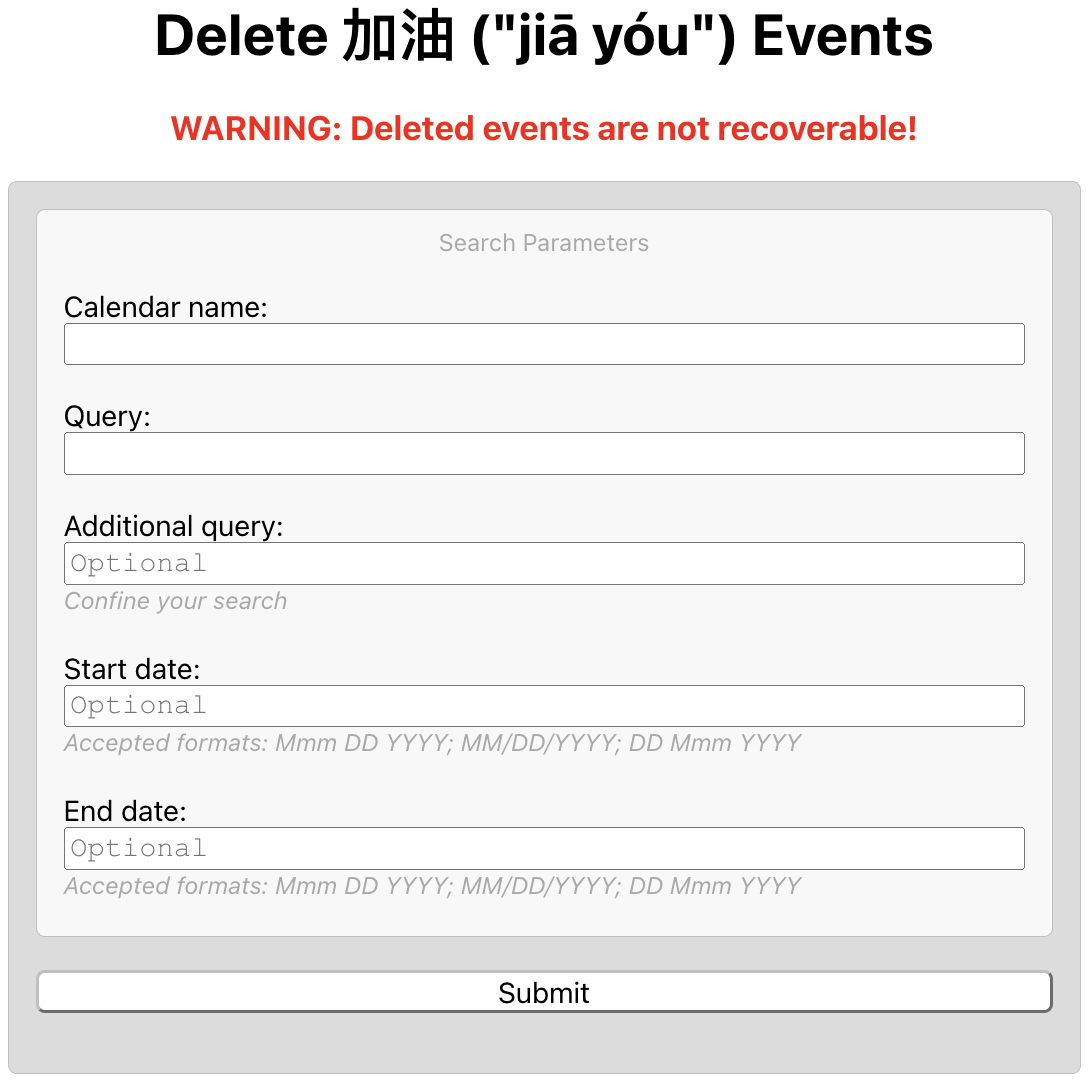
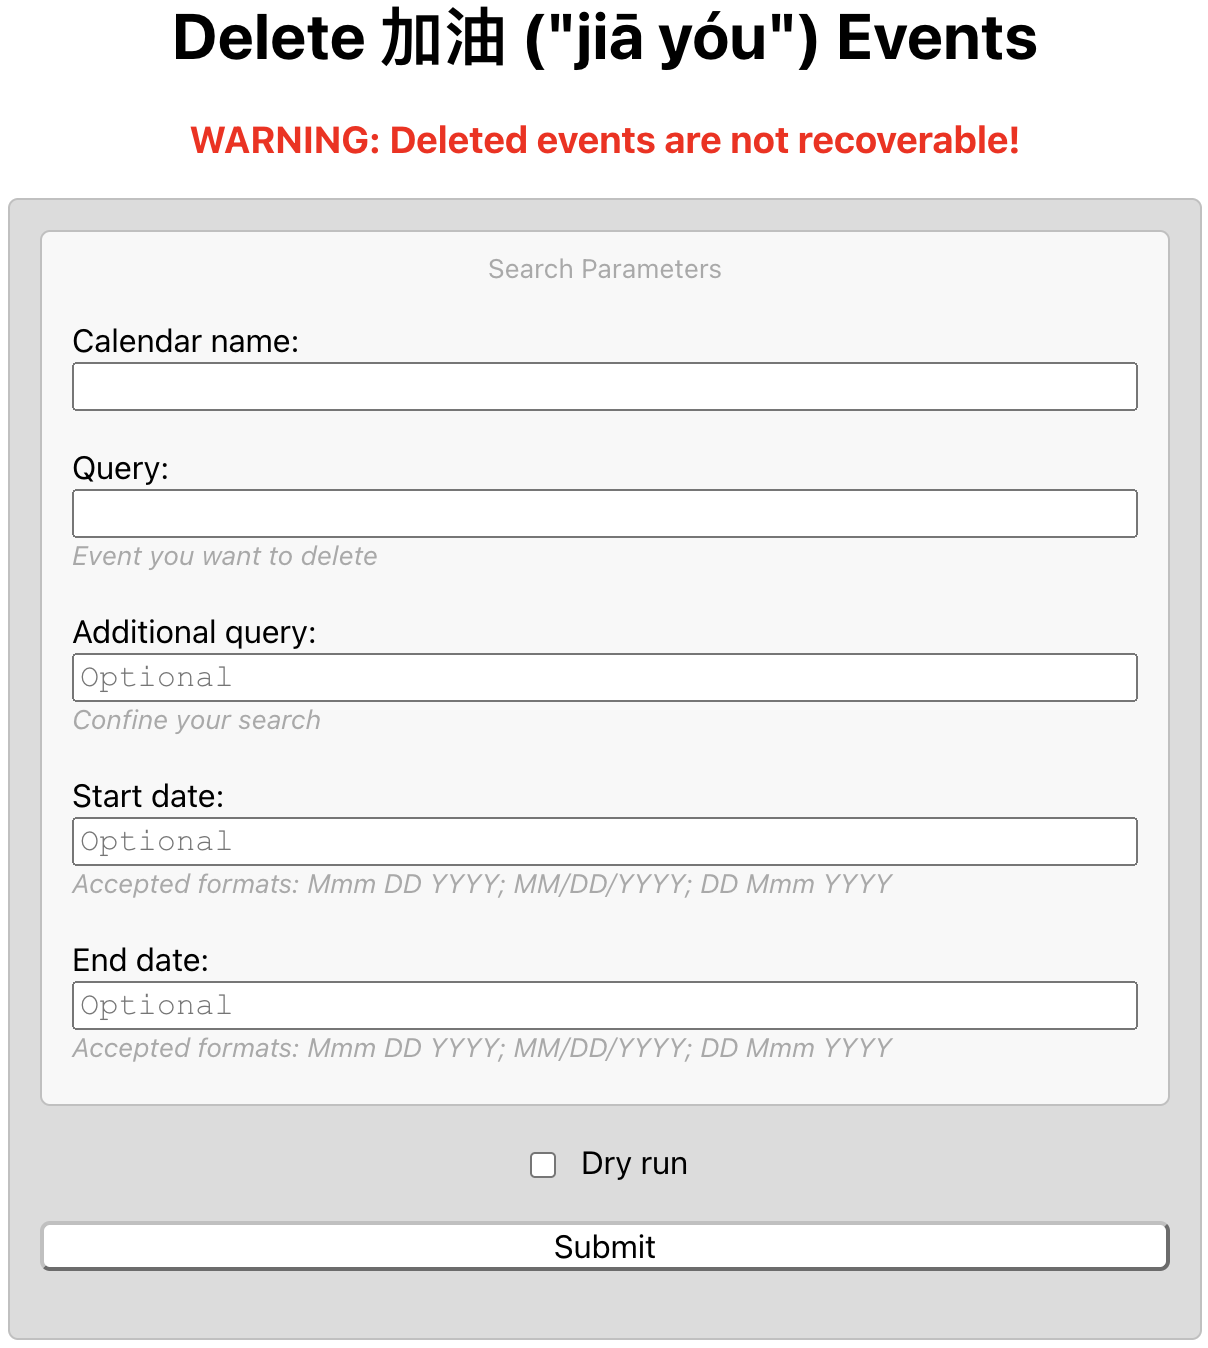
implementing dry run option

diff --git a/Index.html b/Index.html
@@ -12,12 +12,12 @@
         border-radius: 5px;
         background-color: Gainsboro;
       }
-      label, select, input {
+      select, input[type="text"], input[type="submit"] {
         display: block;
         margin-bottom: 0px;
         width: 100%;
         -webkit-box-sizing: border-box;
-        box-sizing: content-box; /* compatibility */
+        box-sizing: border-box; /* compatibility */
       }
       select, input, div {
         font-family: 'Courier New', Courier, monospace;
@@ -46,6 +46,9 @@
       }
       text[id="search"] {
         font-style: normal;
+      }
+      input[type="checkbox"] {
+        vertical-align: bottom;
       }
       input[type="submit"] {
         background-color: white;
@@ -99,6 +102,13 @@
 
       </br>
 
+      <div>
+        <input type="checkbox" id="dryRun" name="dryRun"/>
+        <label for="dryRun">Dry run</label>
+      </div>
+
+      </br>
+
       <input type="submit" value="Submit">
       <div id="wait">&nbsp;</div>
     </form>
@@ -113,11 +123,14 @@
         var queryAdd = document.getElementById('queryAdd').value;
         var start = document.getElementById('start').value;
         var end = document.getElementById('end').value;
+
+        var dryRun = document.getElementById('dryRun').checked;
+
         document.getElementById("wait").innerHTML = "Please wait...";
 
         google.script.run.withSuccessHandler(function(response) {
           document.getElementById('wait').innerHTML = response; // Displays a success message when completed
-        }).deleteEvents(calendarName, query, queryAdd, start, end);
+        }).deleteEvents(calendarName, query, queryAdd, start, end, dryRun);
       });
     </script>
   </body>

diff --git a/README.md b/README.md
@@ -23,7 +23,8 @@ WARNING: Deleted events are not recoverable!
 7. Modify the calendar name and search query. (Modifying the calendar name is recommended, if you had created or updated events on an alternate calender. **_Must name the calendar differently from the owner name, otherwise the app will not delete events._**)
 8. Confine the search by inputting an additional query.
 9. Confine the date range by inputting a start date and end date.
-10. Press submit. (Requires permission to make changes to events and another authorization. **_Note also that deleting calendar events may be subject to a [use limit](https://support.google.com/a/answer/2905486?hl=en)._**)
+10. Optionally perform a dry run to test the Web app before running it in production. Consult logs for output.
+11. Press submit. (Requires permission to make changes to events and another authorization. **_Note also that deleting calendar events may be subject to a [use limit](https://support.google.com/a/answer/2905486?hl=en)._**)
 
 <hr>
 Made with &heartsuit; in Visual Studio Code
